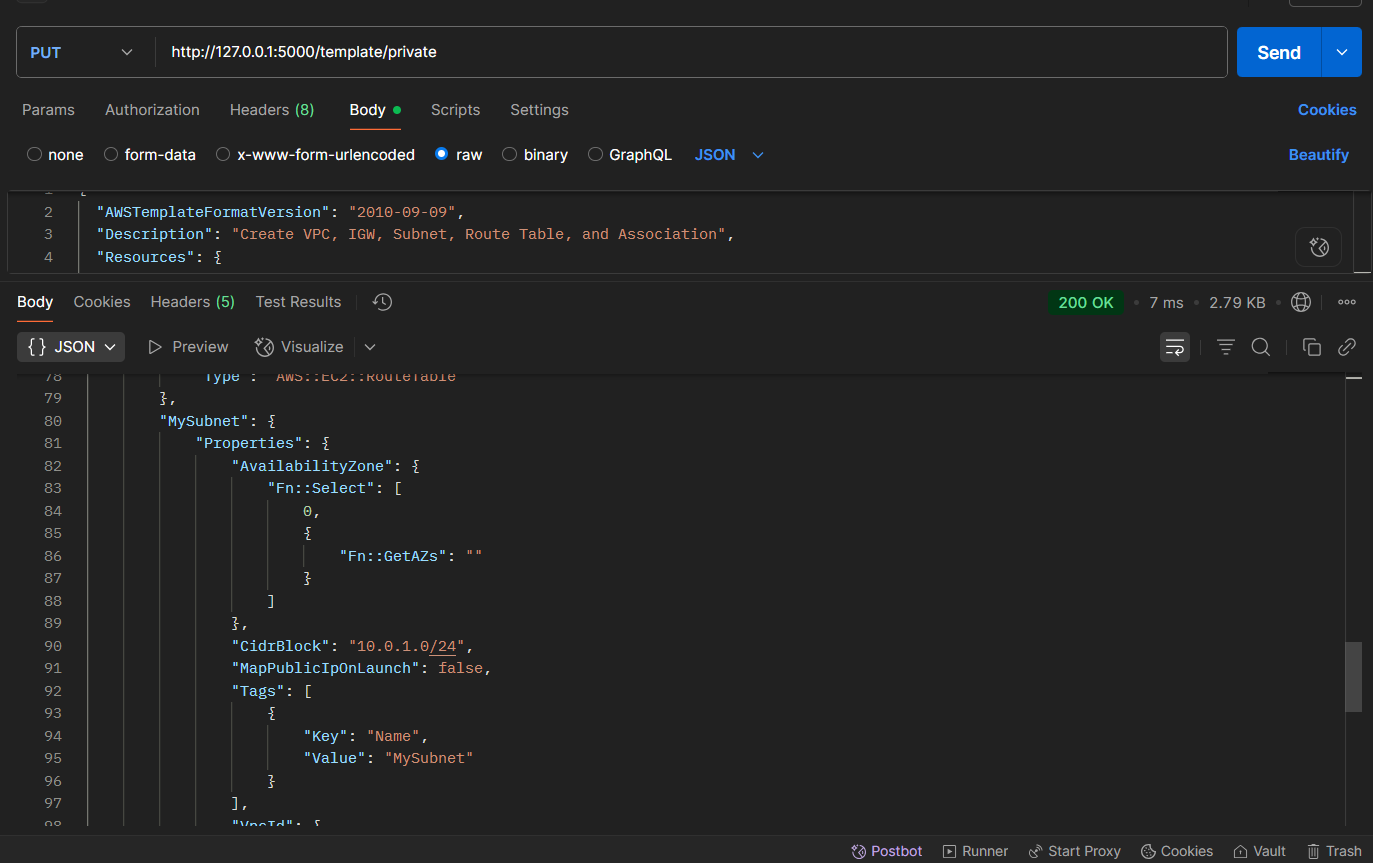
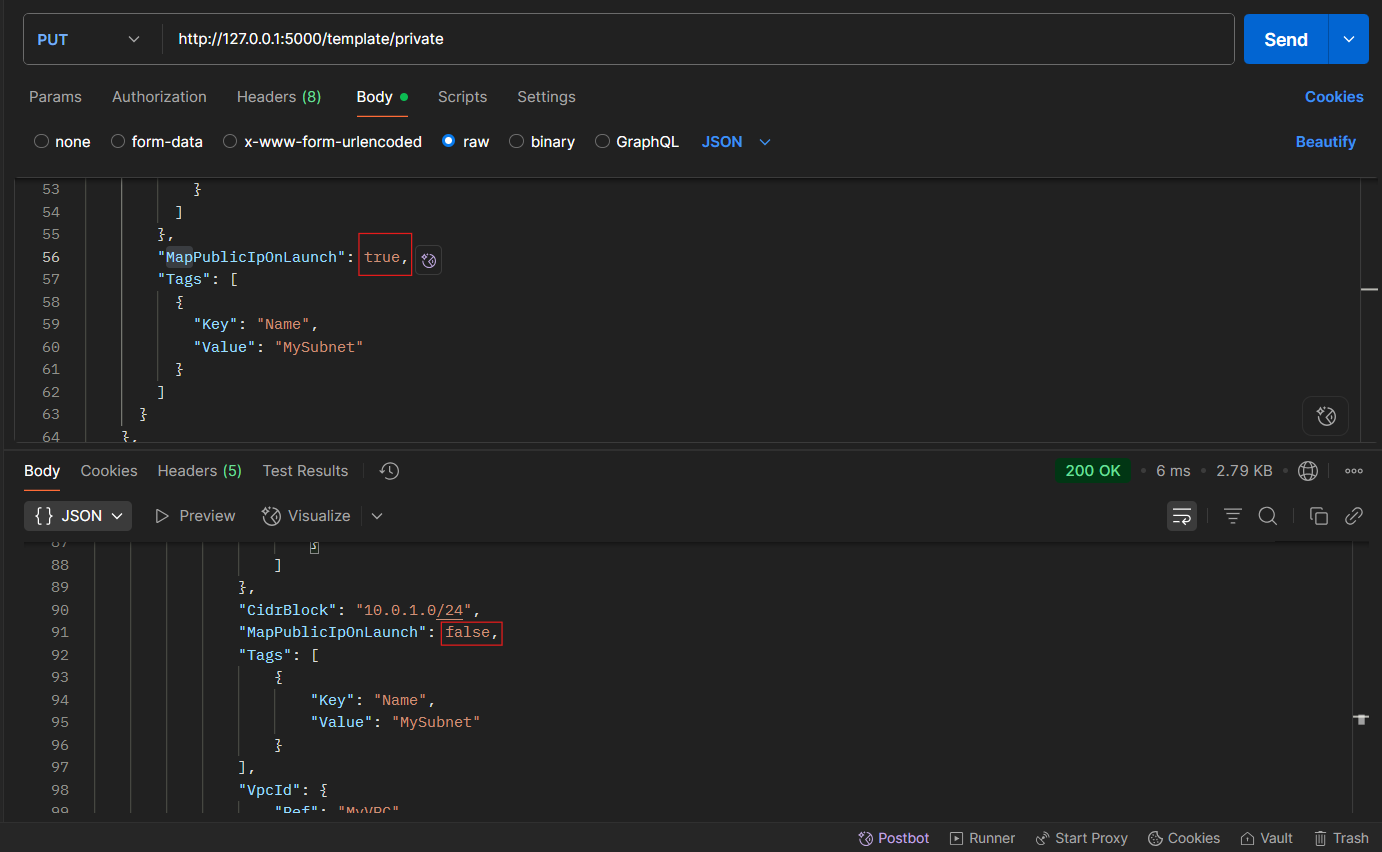
added README.md

diff --git a/aws_helpers.py b/aws_helpers.py
@@ -12,7 +12,6 @@ def get_template(stack_name):
 def create_changeset(stack_name, template_body):
     changeset_name = f"ChangeSet-{uuid.uuid4()}"
 
-    # ✅ Convert to valid JSON string
     template_body_json = json.dumps(template_body)
 
     response = cf.create_change_set(

diff --git a/README.md b/README.md
@@ -1,0 +1,125 @@
+# Cloudformation-template-management
+
+This has been made as part of an assignment by Cyberlence for Intern role. It contains a flask app, which has 3 endpoints to get Cloudformation template, change subnet from public to private and to create changesets.
+## Getting Started
+
+### Prerequisites
+
+- Python 3.8+
+- `pip` (Python package manager)
+
+### Installation
+
+1. Clone the repository:
+
+    ```bash
+    git clone git@github.com:scoder17/cloudformation-template-management.git
+    cd cloudformation-template-management
+    ```
+
+2. Create a virtual environment and activate it:
+
+    ```bash
+    python -m venv venv
+    source venv/bin/activate  # On Windows use `venv\Scripts\activate`
+    ```
+
+3. Install dependencies:
+
+    ```bash
+    pip install -r requirements.txt
+    ```
+
+### Running the App
+
+You can run the Flask development server using:
+
+```bash
+python app.py
+```
+
+### Implemented steps
+
+- I first spinned up a cloud sandbox.
+- Added access key id and secret access key through
+
+```
+aws configure
+```
+
+- Wrote a template json.
+- Went to CloudFormation, created a new stack with name Cyberlence.
+- Wrote the required flask app.
+- Tested the endpoints using Postman after running the server.
+
+## Endpoints
+
+### **GET /template/\<stack_name>**
+
+This endpoint takes the stack_name as parameter and then returns the Template Body json.
+
+### Response Screenshot
+![Screenshot](screenshots/1.png)
+
+### **PUT /template/private**
+
+This endpoint takes the template json and converts the subnet from public to private. You can provide json using Body->raw in Postman. It returns the modified template Json as response.
+
+Sample for Body->raw:
+
+```
+{
+    "AWSTemplateFormatVersion": "2010-09-09",
+    "Description": "Create VPC, IGW, Subnet, Route Table, and Association",
+    "Outputs": {
+        "InternetGatewayId": {
+            "Description": "IGW ID",
+            "Value": {
+                "Ref": "MyInternetGateway"
+            }
+        },
+        "Route
+        .
+        .
+
+        .
+}
+```
+
+### Response Screenshot
+![Screenshot](screenshots/2.png)
+
+### **POST /changeset**
+
+It accepts stack name and template JSON. It creates a changeset using boto3. It waits for ChangeSet creation and then returns the details.
+
+Sample for Body->raw:
+
+```
+{
+  "stack_name": "Cyberlence",
+  "template_body": {
+    "AWSTemplateFormatVersion": "2010-09-09",
+    "Description": "Create VPC, IGW, Subnet, Route Table, and Association",
+    "Resources": {
+      "MyVPC": {
+        "Type": "AWS::EC2::VPC",
+        .
+        .
+        .
+
+        ......
+}
+```
+
+### Response Screenshot
+
+When same JSON template was provided
+
+![Screenshot](screenshots/3.png)
+
+When Name of the subnet was changed in JSON
+
+![Screenshot](screenshots/4.png)
+
+![Screenshot](screenshots/5.png)
